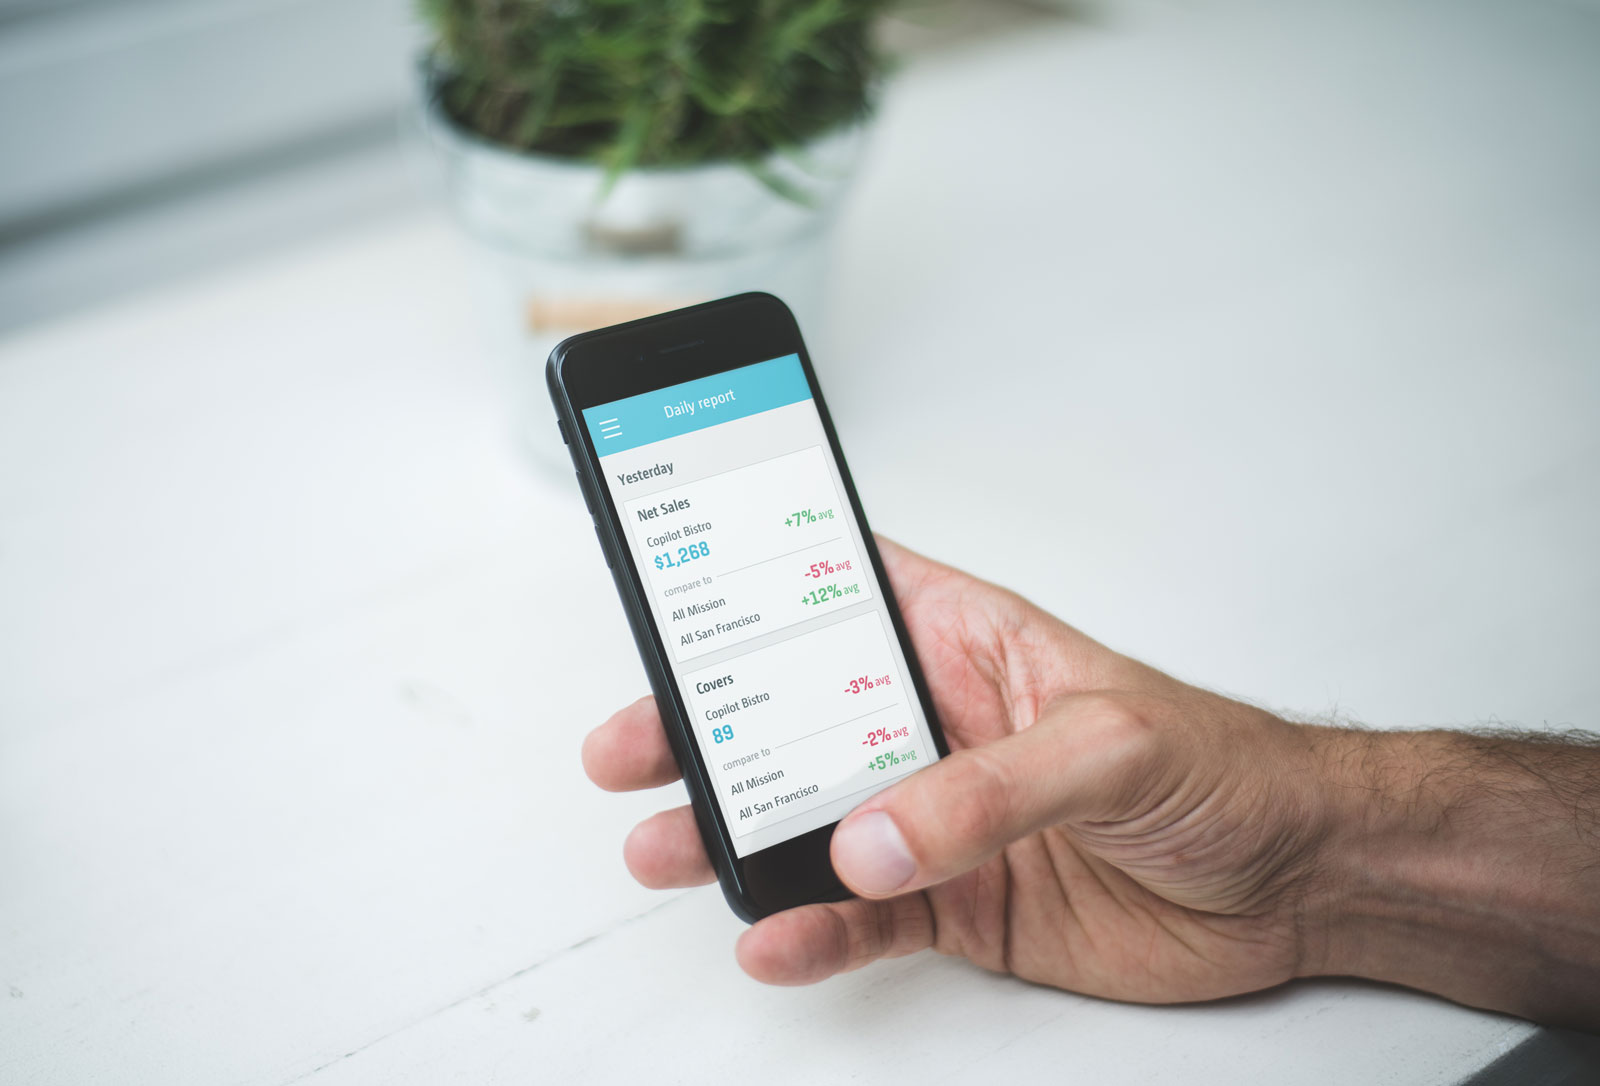
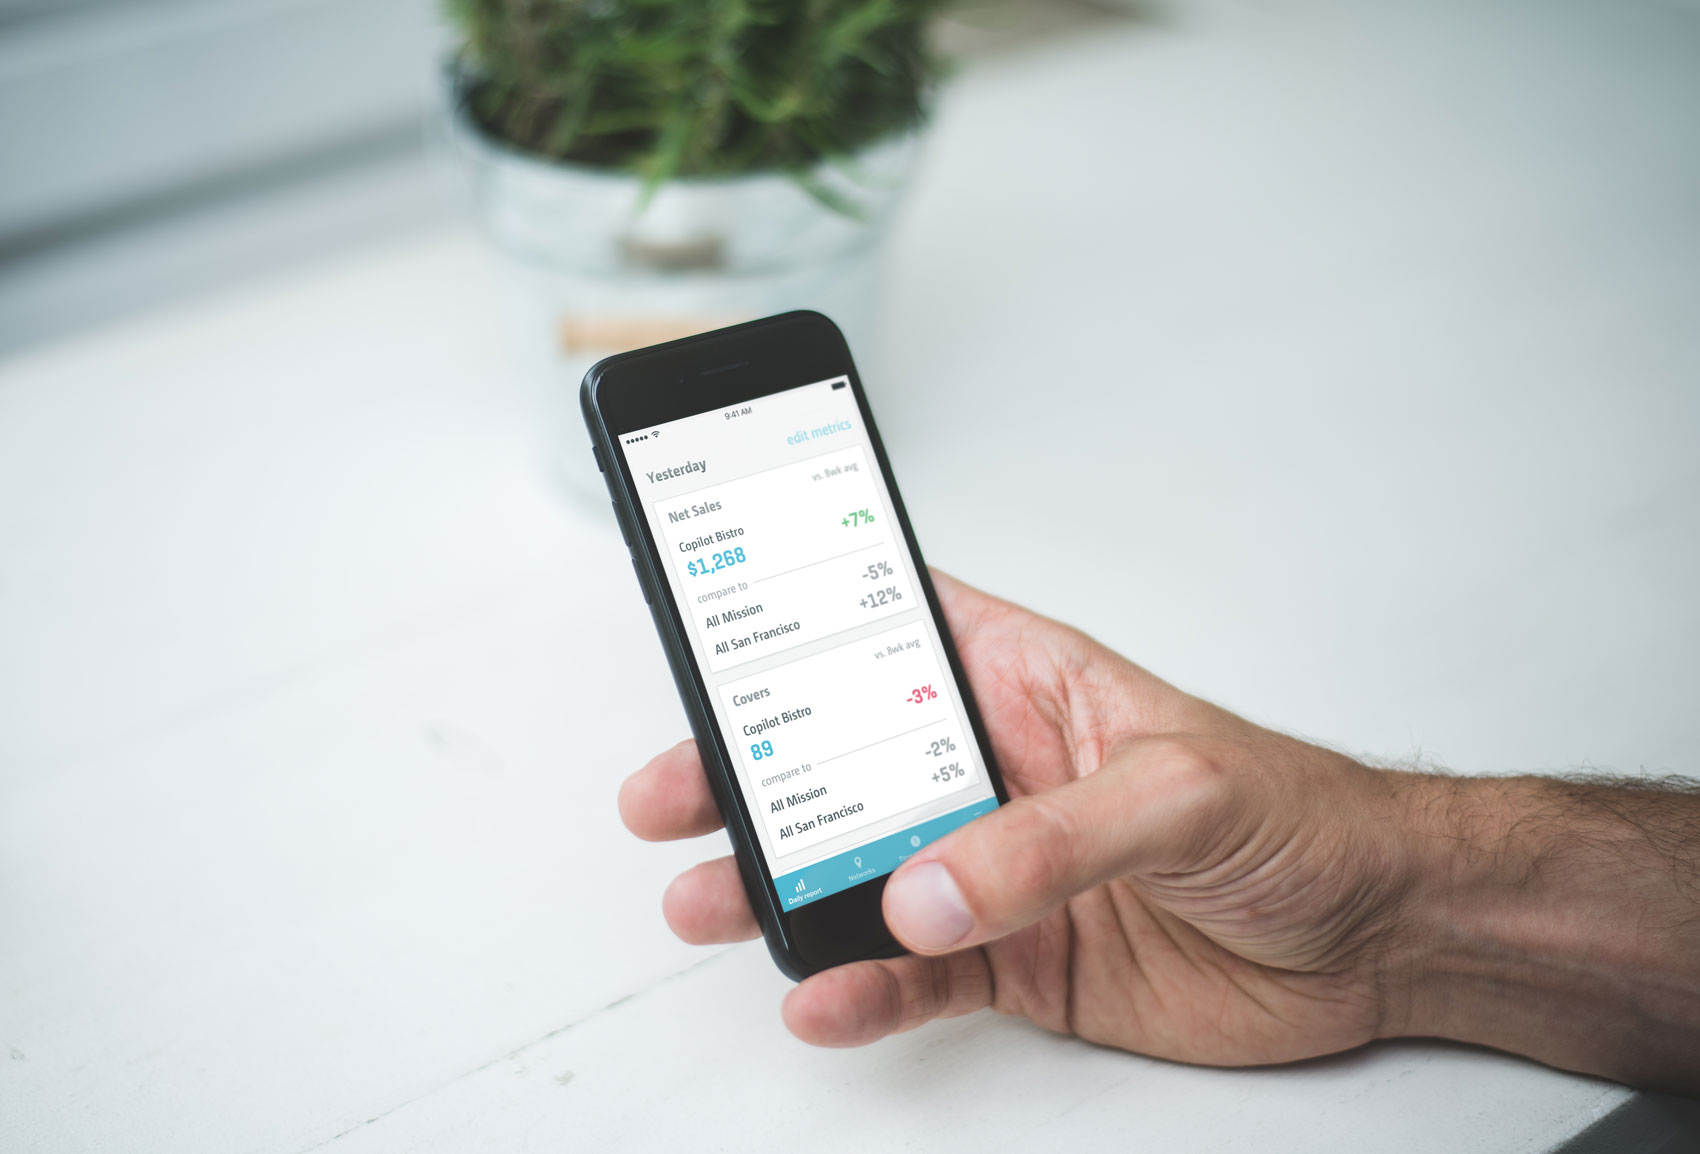
Udpate Copilot case study copy & images

Changed region(s): [[0.3438, 0.3039, 0.5938, 0.7901]]

diff --git a/src/pages/copilot.js b/src/pages/copilot.js
@@ -145,8 +145,8 @@ class Copilot extends React.Component {
                   study I handled:
                 </p>
                 <ul className="arrow-list">
-                  <li>Workflows & product mapping</li>
-                  <li>User testing</li>
+                  <li>User research</li>
+                  <li>Workflow & product definition</li>
                   <li>Wireframing</li>
                   <li>Visual design</li>
                   <li>Frontend development</li>
@@ -403,7 +403,7 @@ class Copilot extends React.Component {
               </div>
               <GridItem centerTwo>
                 <h3 style={{ color: colors.copilotBlue }}>
-                  Redesigning Copilot to fit seemlessly into existing workflows
+                  Fitting seemlessly into existing workflows
                 </h3>
                 <p>
                   We wanted Copilot to be another of our user's essential haibts
@@ -461,7 +461,7 @@ class Copilot extends React.Component {
                 <p className="projectSectionMarker">Results</p>
               </div>
               <GridItem centerTwo>
-                <h3 style={{color:colors.copilotBlue}}>Key Results</h3>
+                <h3 style={{color:colors.copilotBlue}}>Engagement skyrocketed</h3>
                 <p>This time, the form factor and focus on notifications worked. Within a month, 80% of users
                 were engaging with the daily report <em>every day</em>.</p>
 
